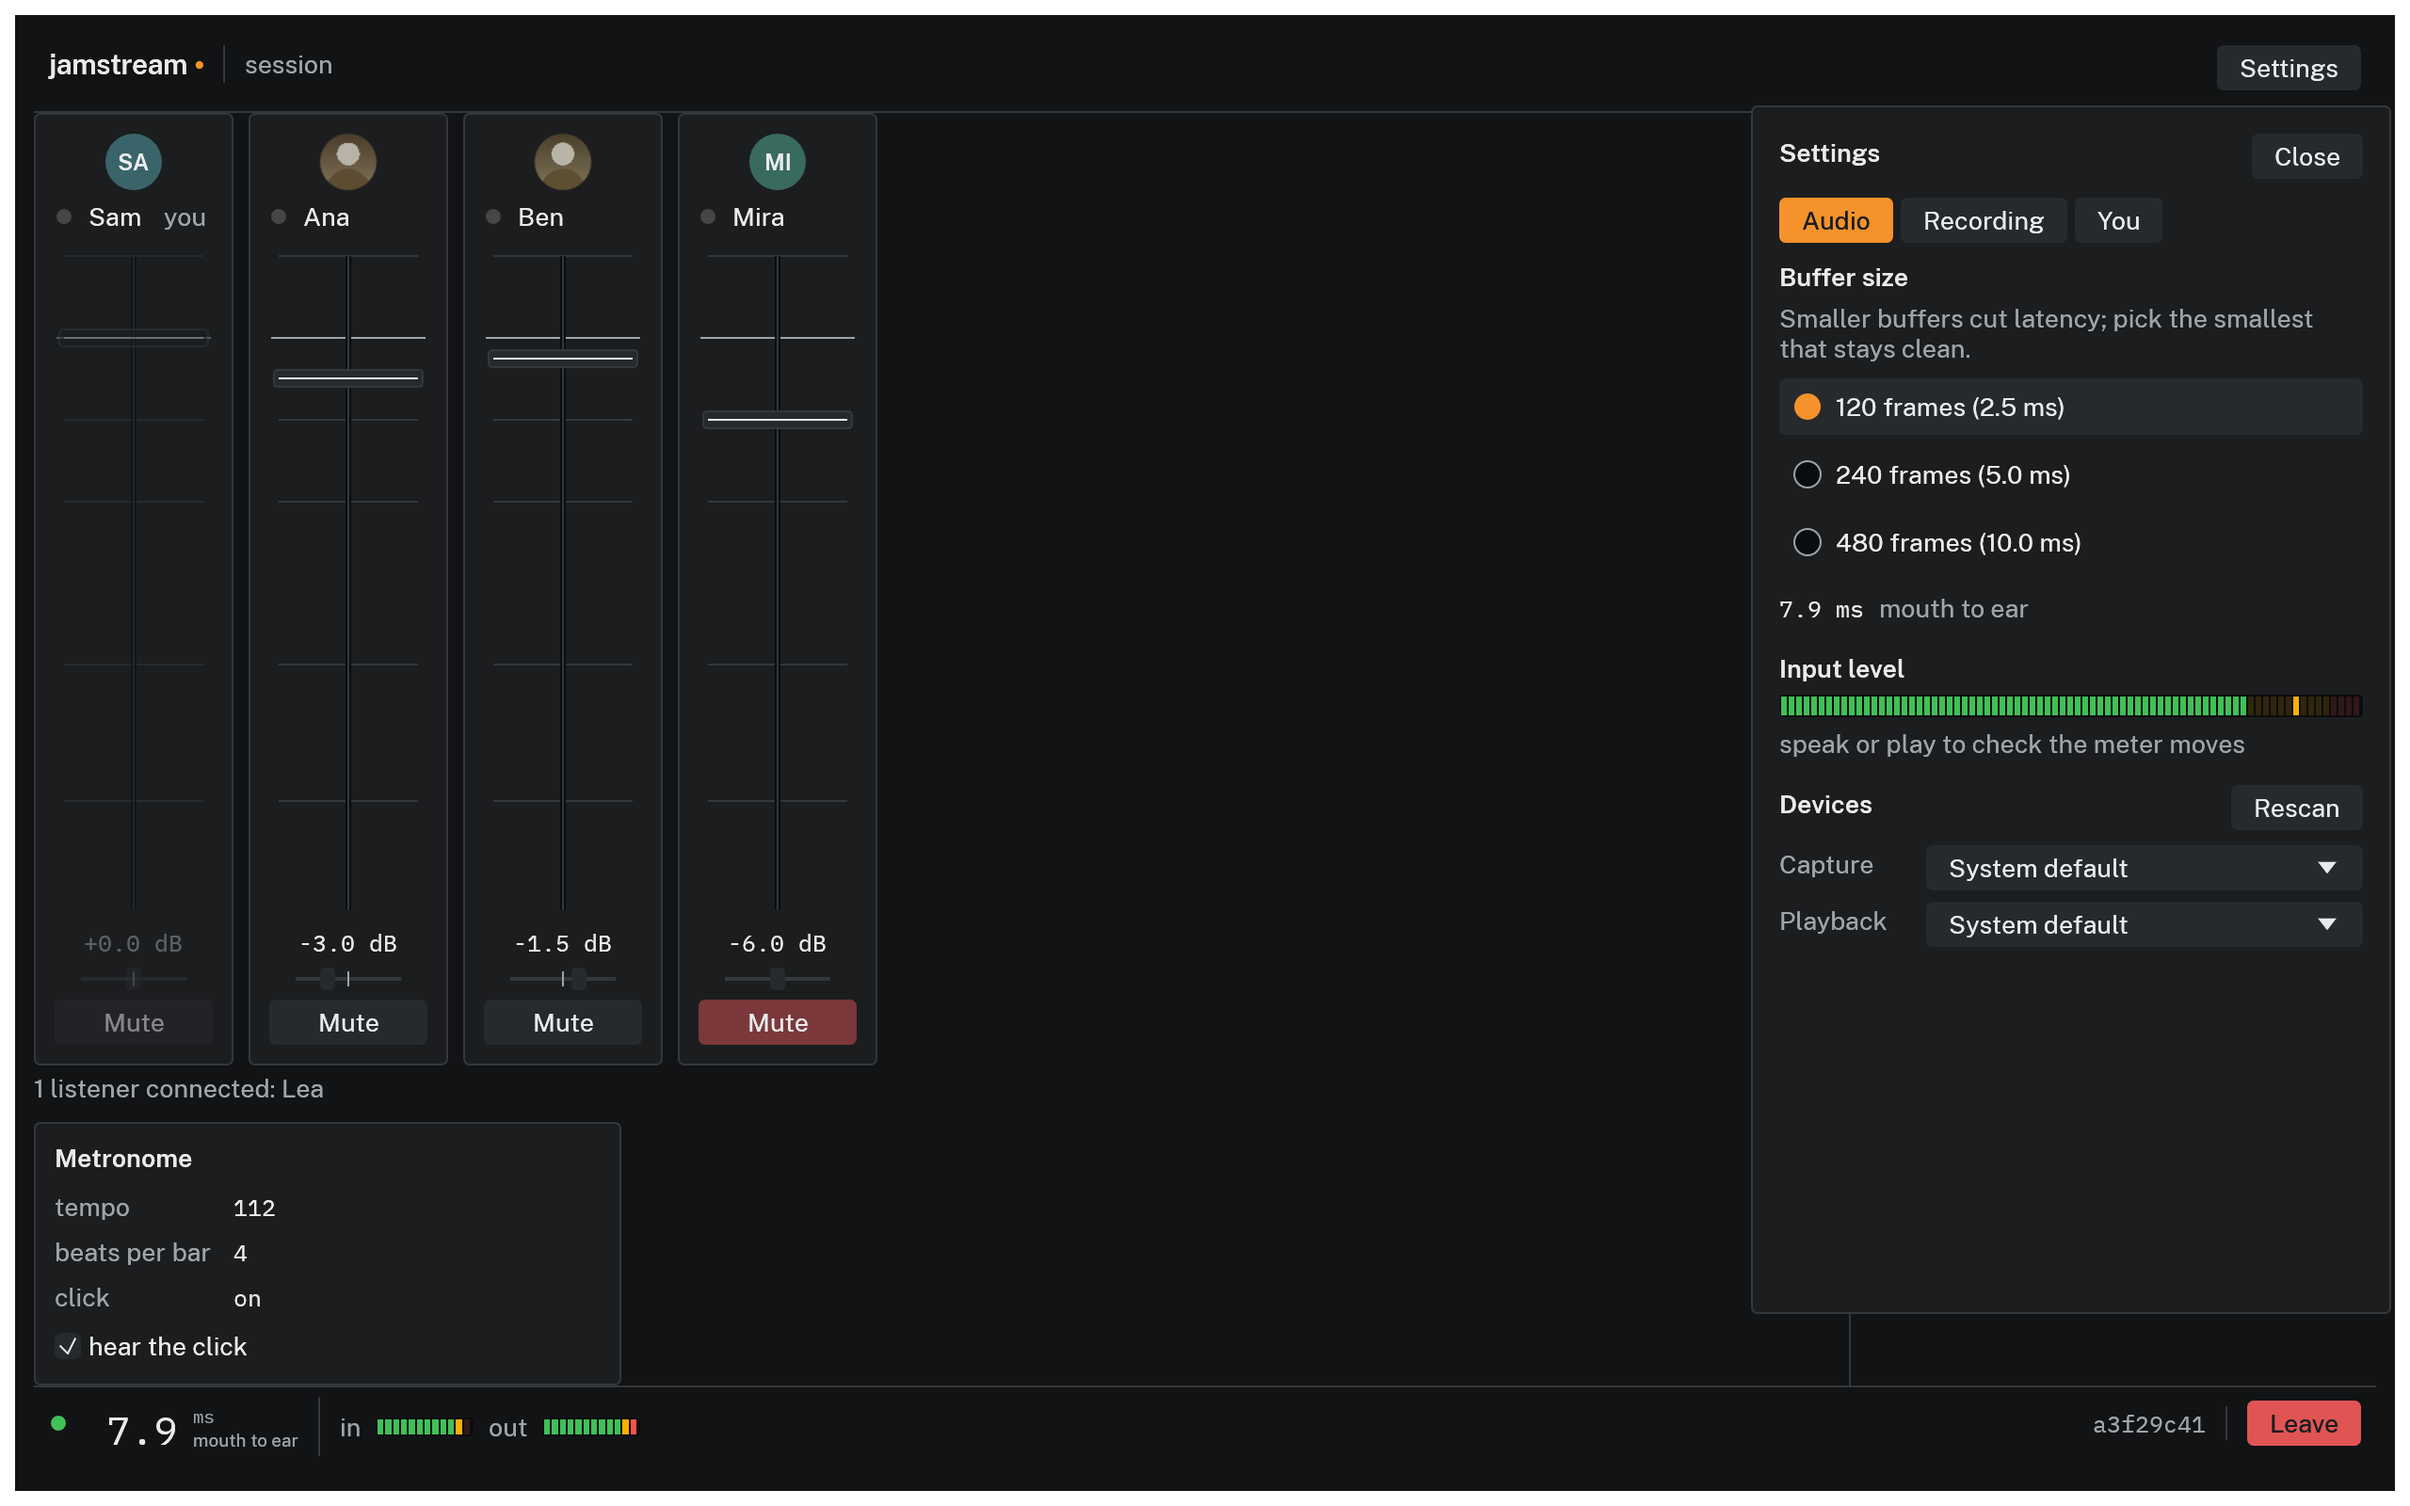
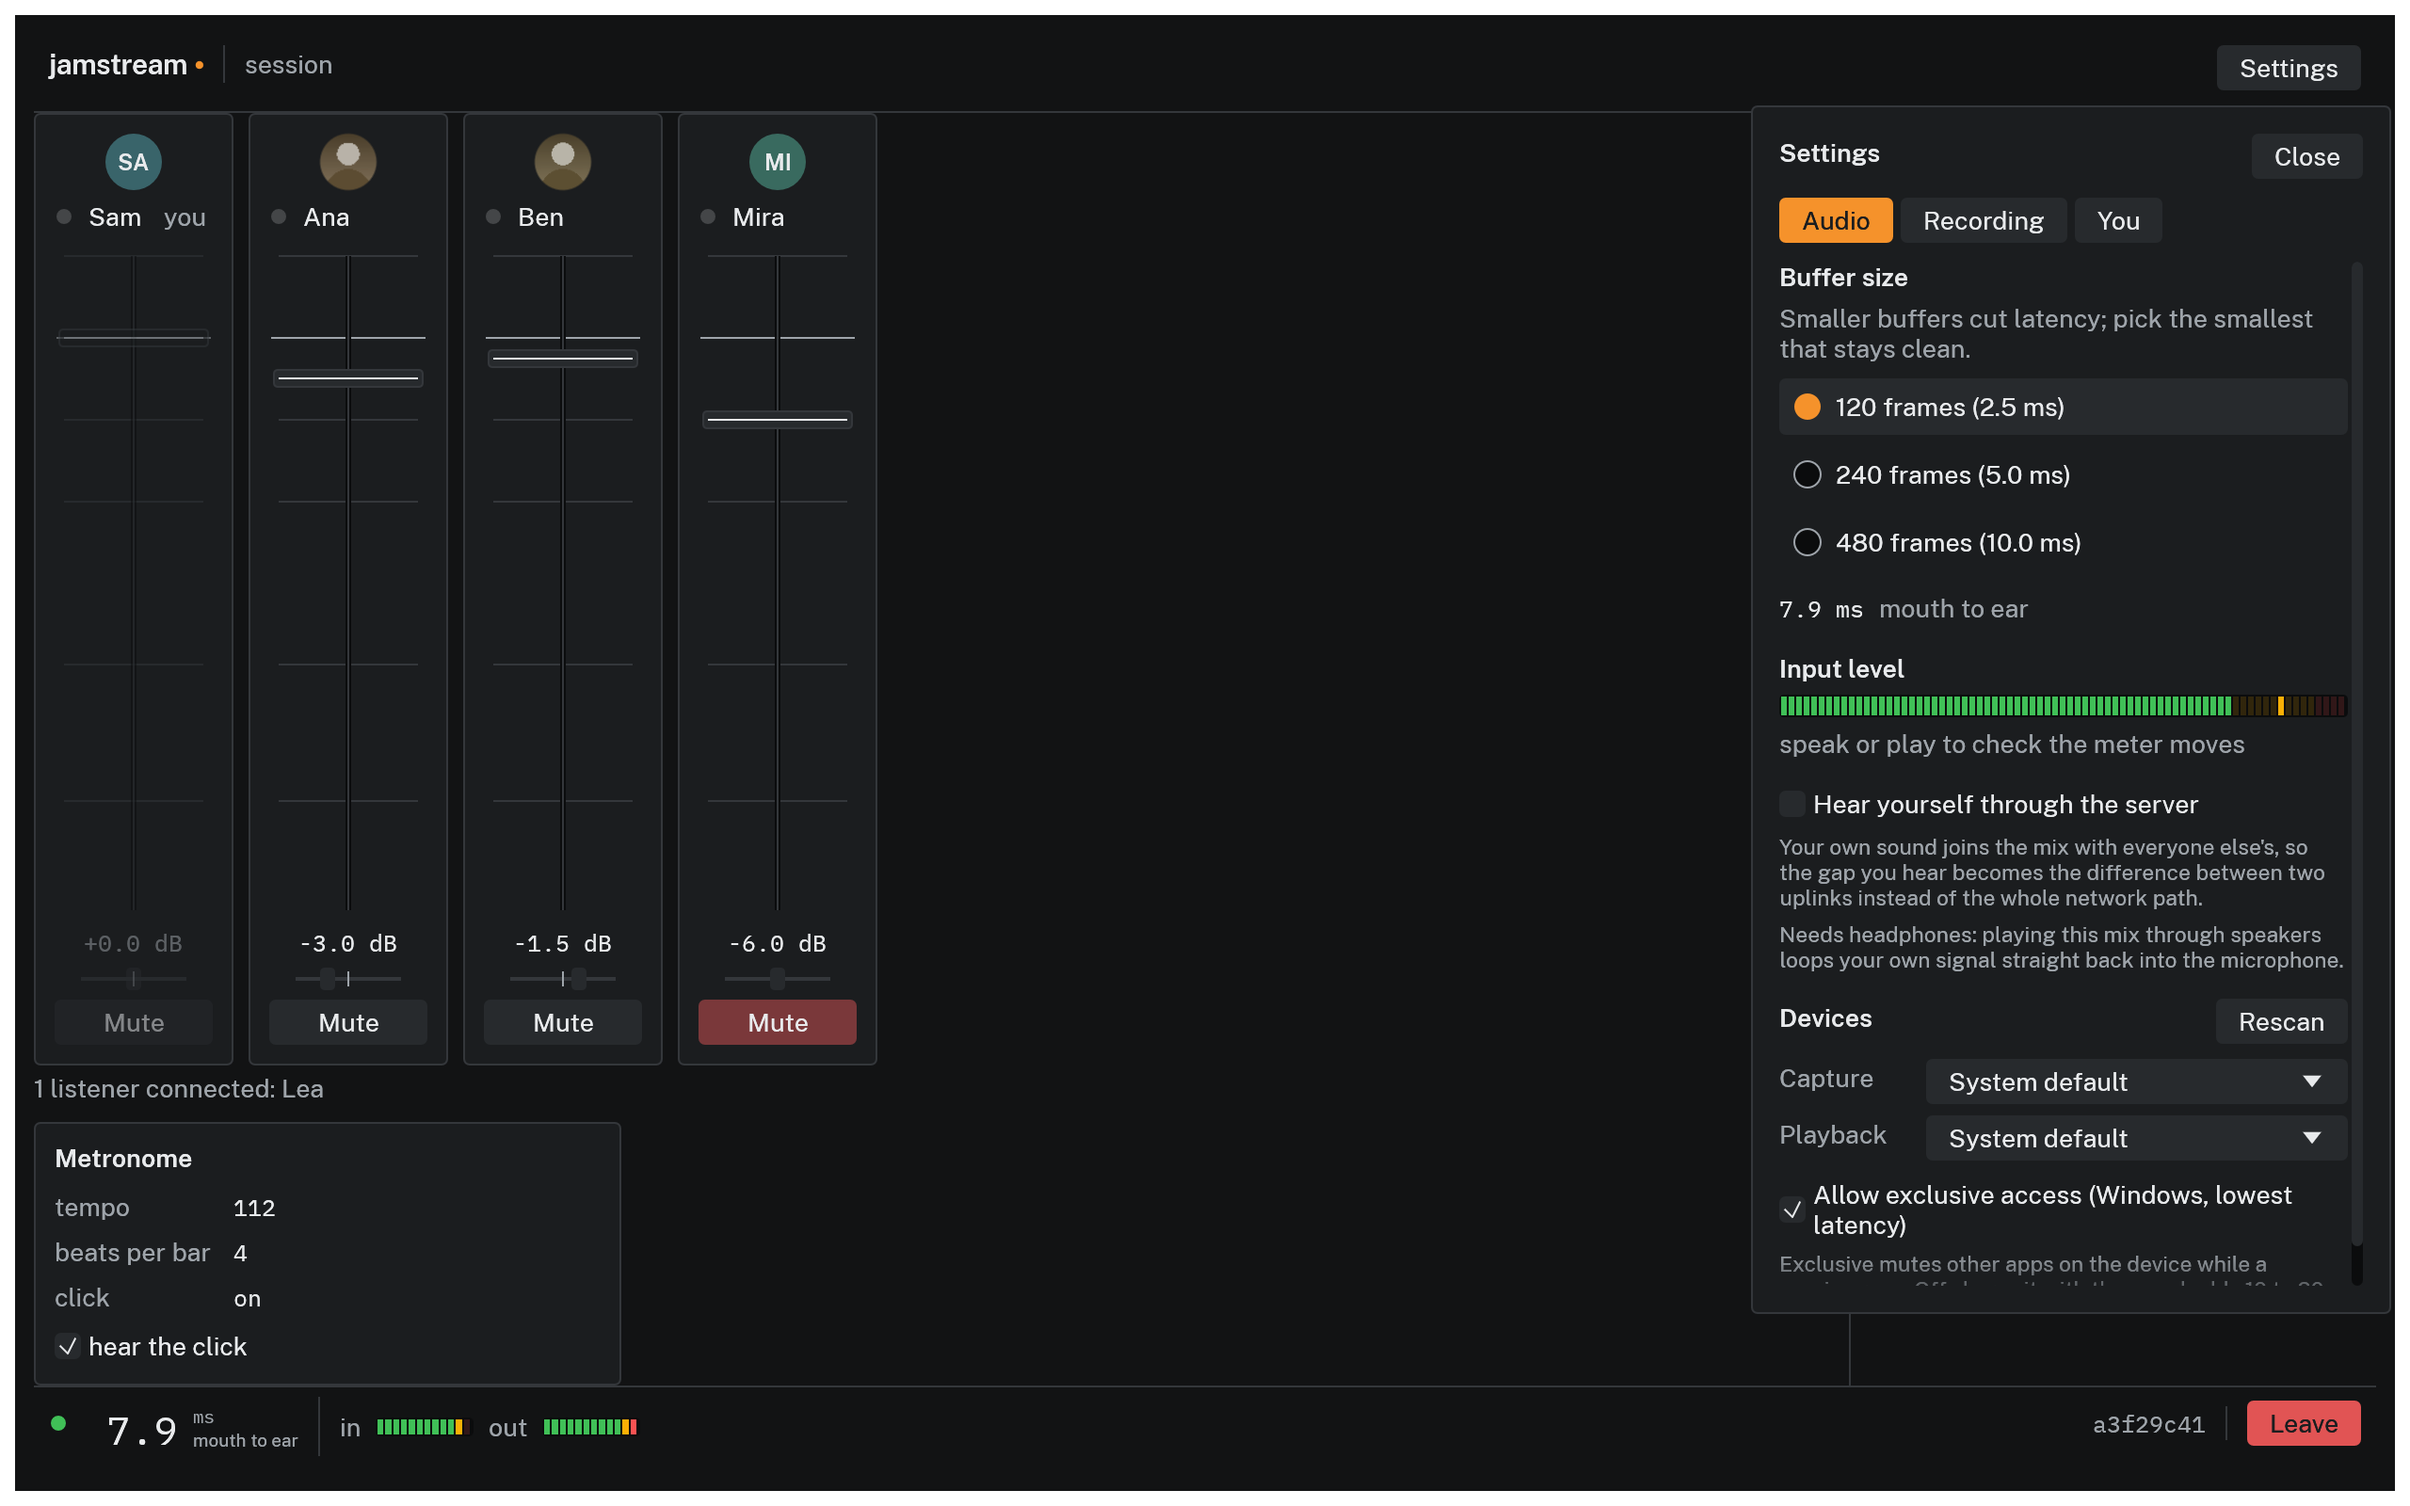
docs(site): explain hearing yourself through the server
Troubleshooting's "band can't keep together" section gets a second
fix beside the click: the new Audio tab choice, for bands that will
not play to a click, with the same headphones note the app gives.

Joining's mixer walkthrough notes the own-channel fader is disabled
for a different reason than before, and the mid-session Audio tab
list picks up the new control.

Changed region(s): [[0.7188, 0.5312, 0.9688, 0.6875], [0.75, 0.75, 0.9375, 0.8438]]

diff --git a/site/src/guides/joining.md b/site/src/guides/joining.md
@@ -29,7 +29,7 @@ What you are looking at:
 
 - One mixer strip per musician: an avatar disc, a presence dot, name, fader, pan, dB readout, and a Mute button. This is your personal monitor mix; moving Ana's fader changes what you hear, not what anyone else hears.
 - The avatar disc shows a member's picture if they set one, and their initials on a color hashed from their name if they have not. The same disc and color appear on the card the broadcast renders, so a member looks the same in the app and on a stream.
-- Your own strip is dimmed with a "you" tag. Self monitoring is local, on your interface, not through the server, so your own channel has no fader in the mix.
+- Your own strip is dimmed with a "you" tag, with no fader on it: there is no separate gain for your own channel. Self monitoring is local by default; the Audio tab's **Hear yourself through the server** choice puts your own sound in the mix too, on the band's timeline instead of off it.
 - The host additionally sees a Revoke button on every other strip. Revoking ejects that member and kills their invite, with a confirmation step.
 - Chat, with timestamps. The metronome panel shows tempo, beats per bar, and click state; the host sets them, and "hear the click" is your own choice.
 - The **ON AIR** lamp, in the middle of the status bar, is absent until the host starts a broadcast and amber while one is running; hover it to see how many platforms are receiving it.
@@ -57,12 +57,13 @@ Settings in the top bar opens over the session without covering the strips or th
 - **Recording**, for where takes go; a setting of this computer, present whatever the session is.
 - **You**, for your avatar and the theme.
 
-![The Audio tab of the Settings drawer beside the session: buffer size choices with the current mouth to ear figure, an input level meter, and capture and playback pickers](../images/session_settings.png)
+![The Audio tab of the Settings drawer beside the session: buffer size choices with the current mouth to ear figure, an input level meter, the Hear yourself through the server choice, and capture and playback pickers](../images/session_settings.png)
 *Settings mid-session: device and buffer changes apply immediately; the stream reopens in place.*
 
 - **Buffer size** offers 120, 240, or 480 frames (2.5, 5, or 10 ms). Pick the smallest that plays clean; crackles mean one step up. The mouth to ear figure under the choices moves with them, because the buffer is part of it.
 - A choice outside what the selected device can deliver is annotated with the device's own minimum or maximum, because that is what you will really get.
 - The **Input level** meter should move when you play. If it is still, the wrong capture device is selected or the operating system has not granted microphone access.
+- **Hear yourself through the server** is off by default; turning it on puts your own sound in your mix too, on the band's timeline. See [The band can't keep together](troubleshooting.md#the-band-cant-keep-together) for why, and note it wants headphones.
 - **Capture** and **Playback** list a System default entry first, then your machine's real audio devices. Changing one mid-session reopens the audio stream on the new device without leaving the session, and Rescan picks up an interface plugged in after launch.
 - Device and buffer choices are remembered across launches; a remembered device that is not connected at startup falls back to the system default until it returns.
 - Any sample rate works. Sessions run at 48 kHz, and an interface at another rate (a 44.1 kHz deck, say) joins anyway: where the platform allows, JamStream sets the device to 48 kHz and says so in chat.

diff --git a/site/src/guides/troubleshooting.md b/site/src/guides/troubleshooting.md
@@ -44,6 +44,9 @@ This is a different complaint from a high latency number: everyone sounds right 
 |---|---|---|
 | Timing holds up solo, and drags once the whole band plays, worse with distance | Each player hears their own instrument immediately and everyone else a full network path away, so the timing error every player feels is the mouth-to-ear number the [status bar](#latency-feels-high) already shows, and no two players carry the same number | Turn on the click. It's mixed into every player's personal mix on the server, so it reaches everyone on the same timeline and the band follows it instead of each other. It does not change the mouth-to-ear number, and it does not need to |
 
+Not every band plays to a click. The other fix: turn on **Hear yourself through the server**, on the Audio tab of Settings.
+Your own sound joins the mix, so the error you hear becomes the gap between two uplinks instead of the whole network path. It wants headphones, because playing that mix through speakers loops your own signal back into the microphone.
+
 ## Device problems
 
 Input and output devices are picked on the Audio tab of Settings, under Devices: a Capture picker, a Playback picker, and an input level meter that should move when you play.
